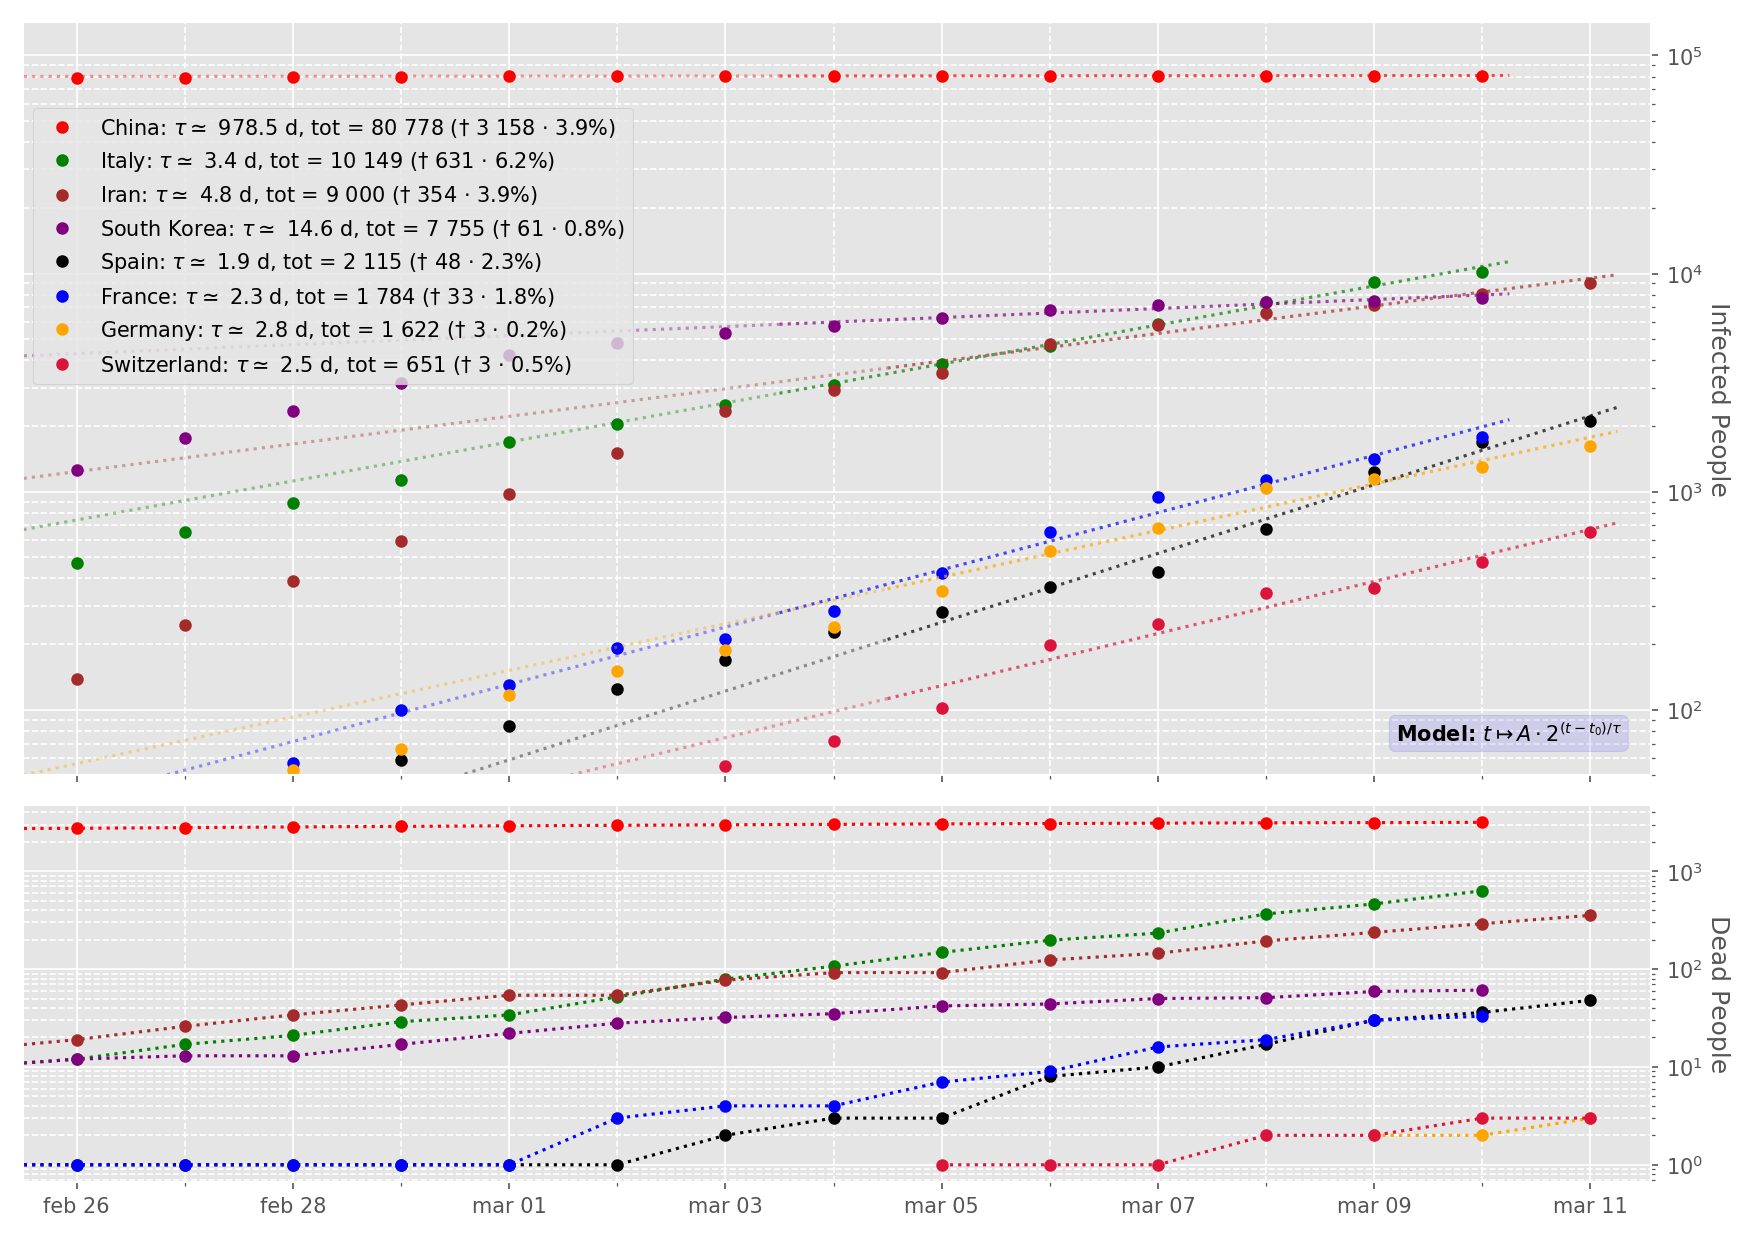
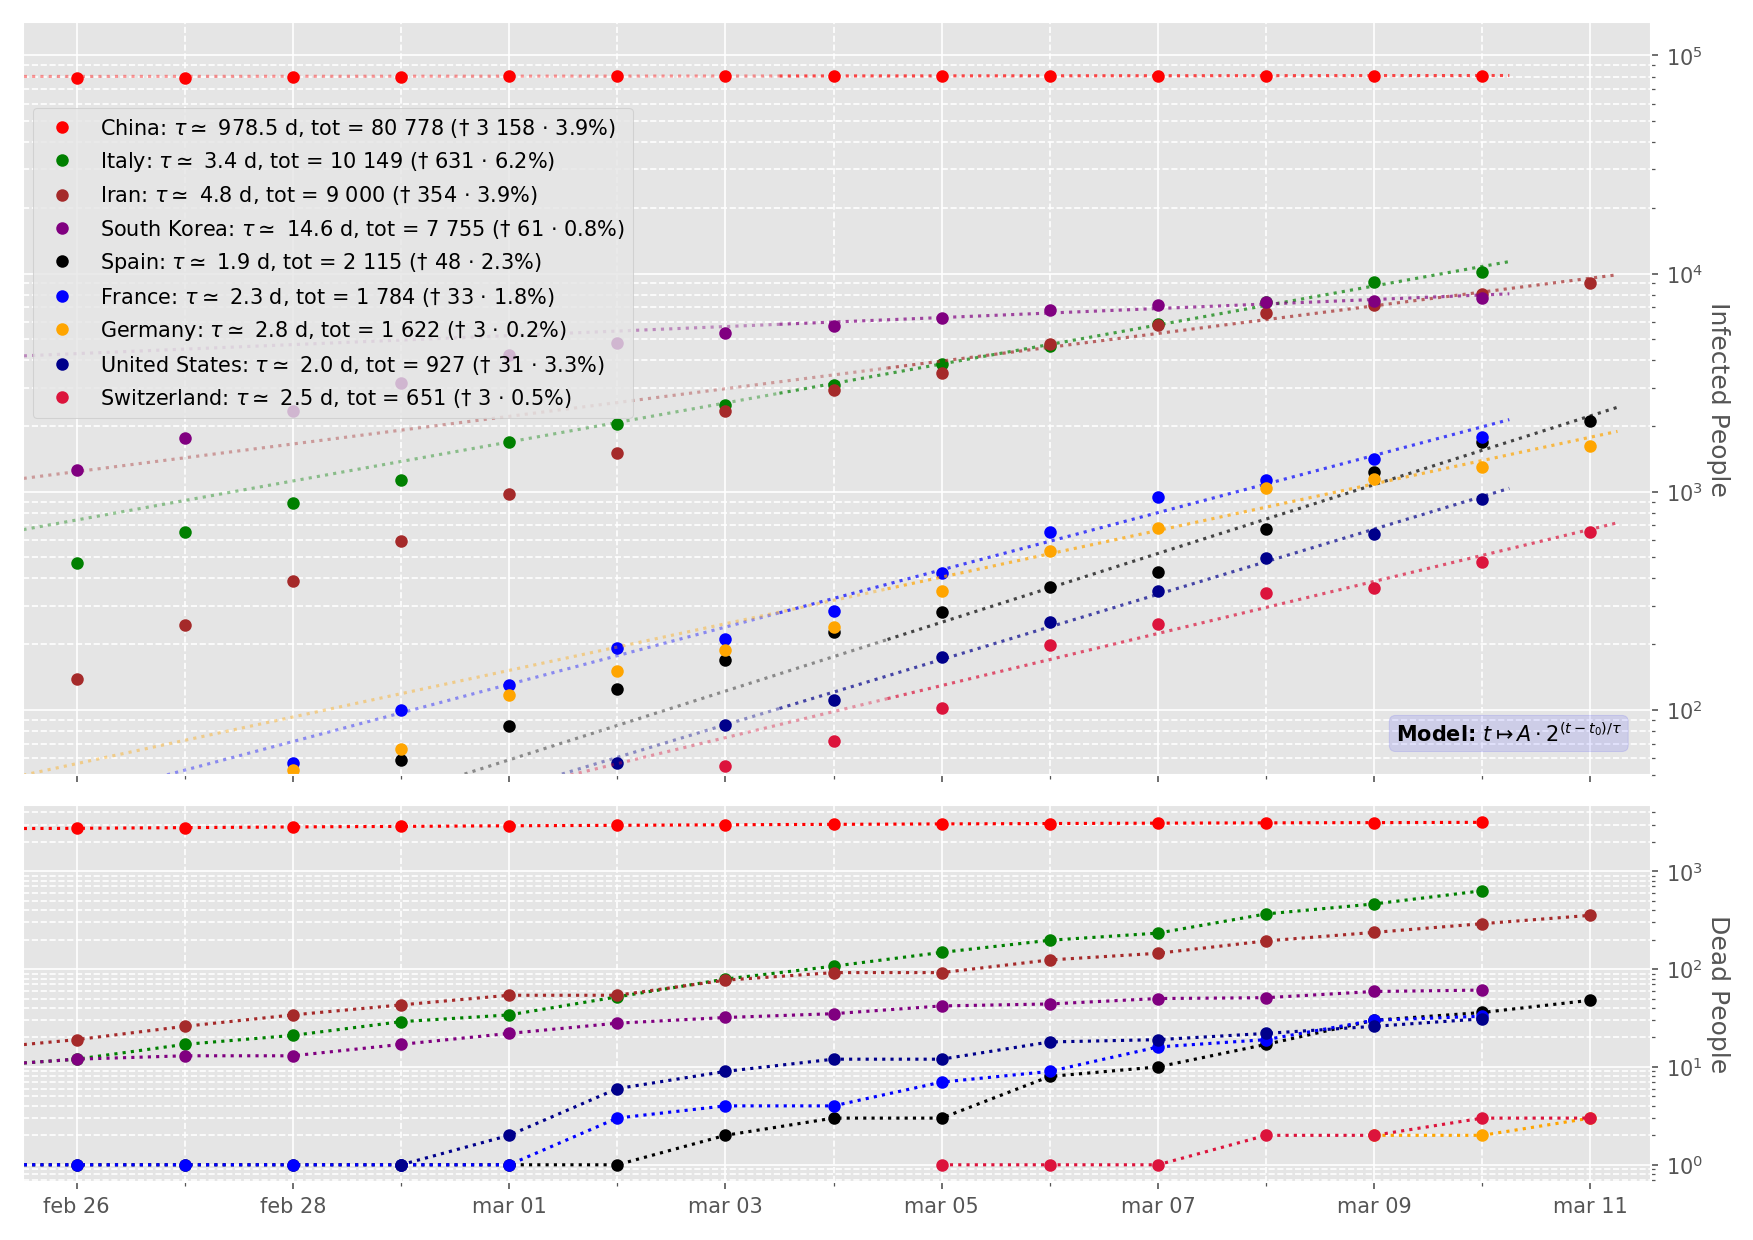
minor commit

diff --git a/Coronavirus/coronavirus.py b/Coronavirus/coronavirus.py
@@ -19,21 +19,22 @@ country_ds = pd.DataFrame(
 )
 country_ds["name"] = [
     "South Korea", "Iran", "Italy", "Germany", "France", "China", "Spain",
-    "Switzerland"
+    "Switzerland", "United States"
 ]
 country_ds["filename"] = [
     "SouthKorea.dat", "Iran.dat", "Italy.dat", "Germany.dat", "France.dat",
-    "China.dat", "Spain.dat", "Switzerland.dat"
+    "China.dat", "Spain.dat", "Switzerland.dat", "UnitedStates.dat"
 ]
 country_ds["date_format"] = [
     "%Y-%m-%d", None, "%d-%m-%Y", "%d.%m.%Y", "%d.%m.%Y", None, "%Y-%m-%d",
-    "%Y-%m-%d"
+    "%Y-%m-%d", "%b %d %Y"
 ]
 country_ds["color"] = [
-    "purple", "brown", "green", "orange", "blue", "red", "black", "crimson"
+    "purple", "brown", "green", "orange", "blue", "red", "black", "crimson",
+    "darkblue"
 ]
 country_ds["fit"] = [
-    "lin", "lin", "lin", "lin", "lin", "lin", "lin", "lin"
+    "lin", "lin", "lin", "lin", "lin", "lin", "lin", "lin", "lin"
 ]
 
 for i in country_ds.index:
